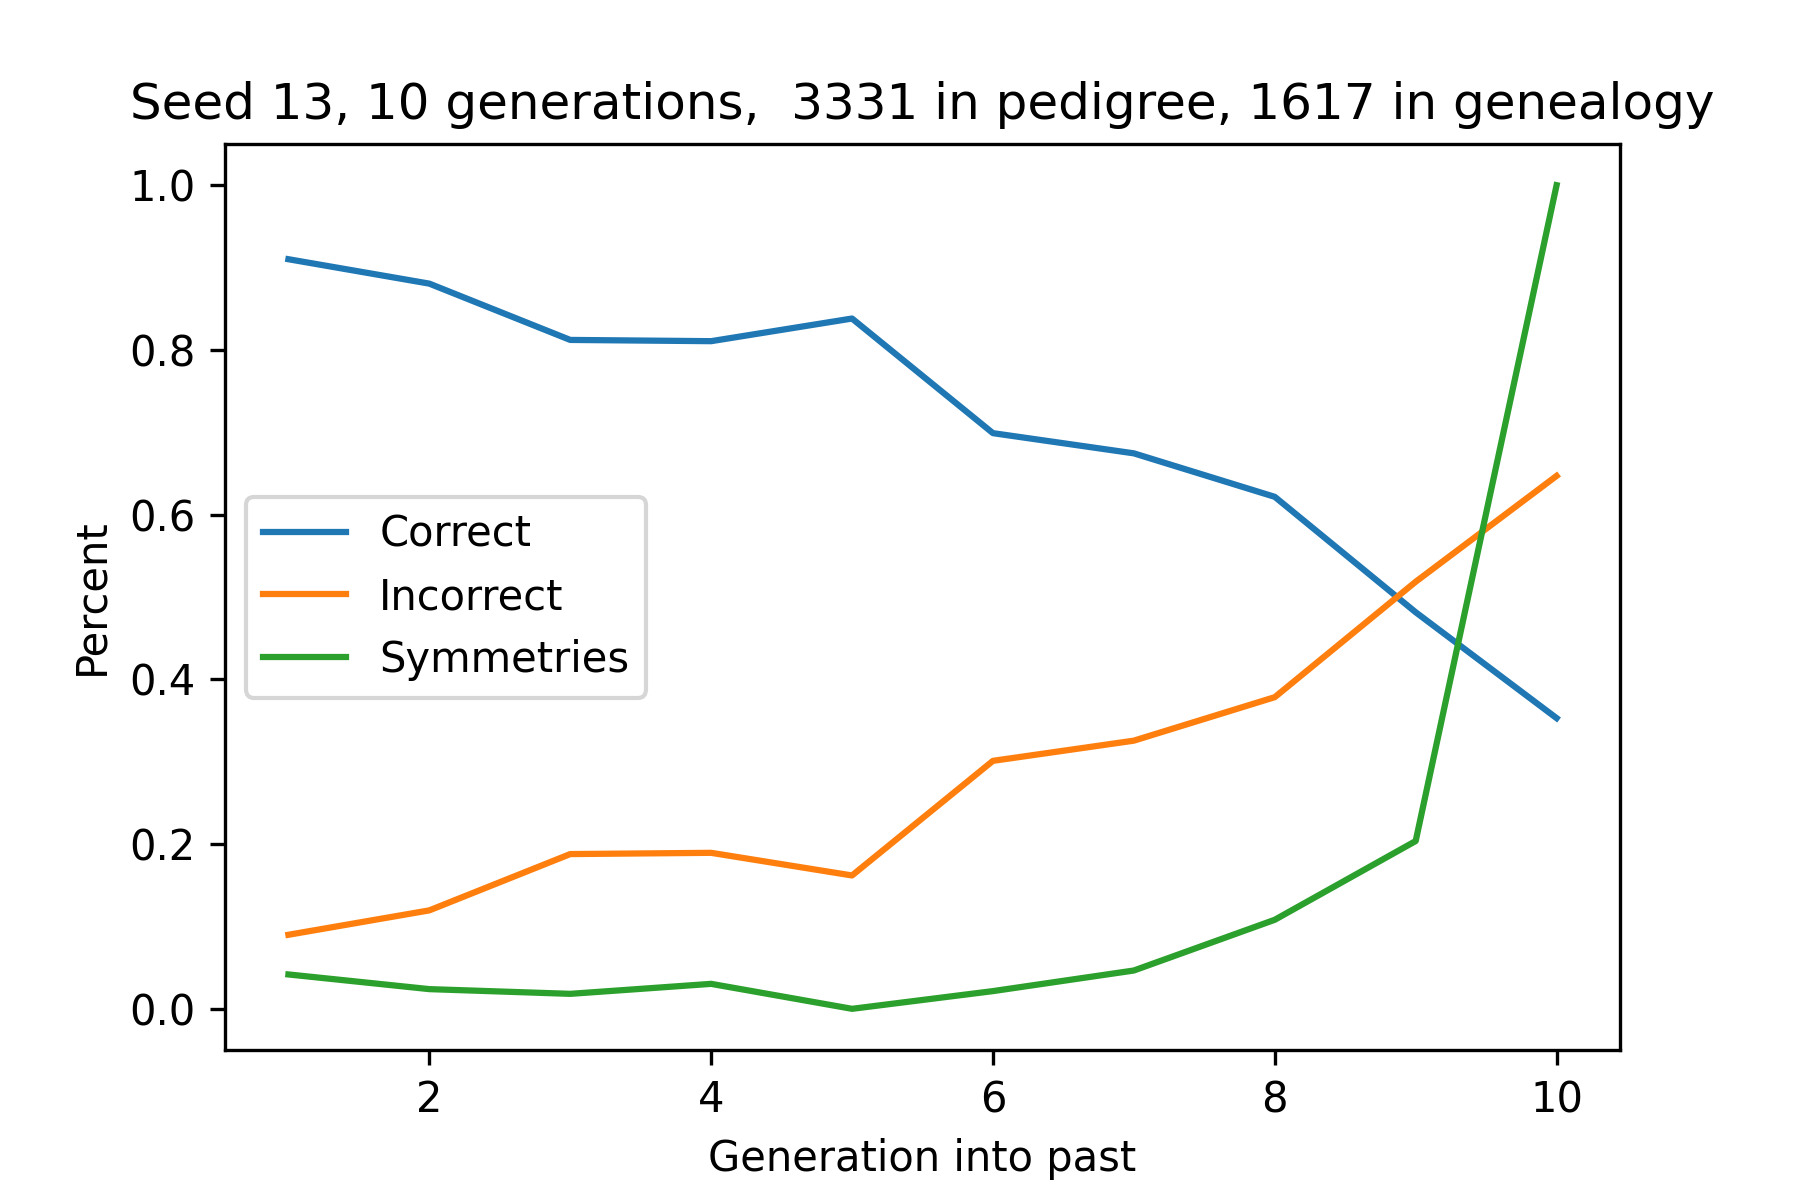
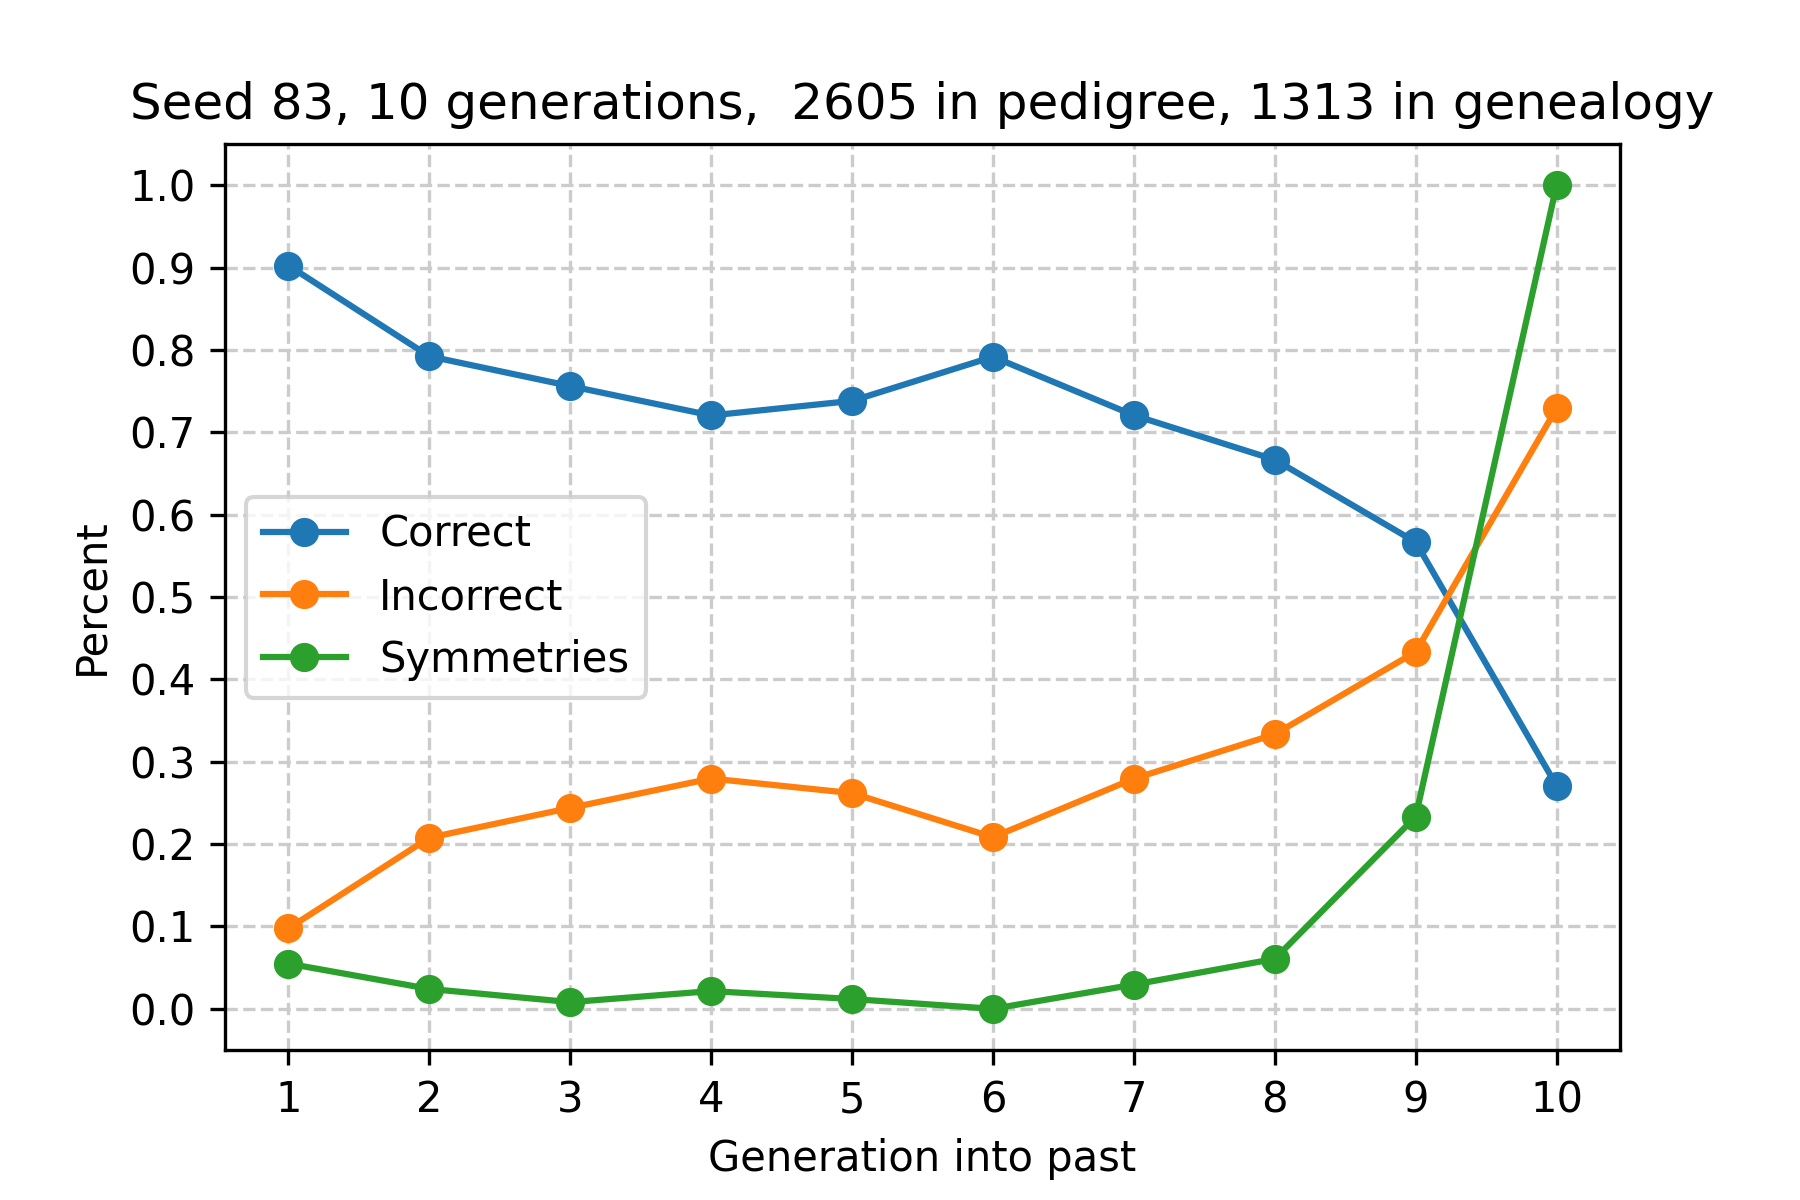
Added more agent alignment and plotting

diff --git a/scripts/agent_example.py b/scripts/agent_example.py
@@ -4,32 +4,41 @@ import numpy as np
 from collections import Counter
 import numpy.random as rnd
 import matplotlib.pyplot as plt
+from copy import deepcopy
 
 
-seed = rnd.randint(1000)
+# seed = rnd.randint(1000)
+seed = 83
 rnd.seed(seed)
 print(f"Seed {seed}")
+founders = 200
 generations = 10
-P = Pedigree.simulate_from_founders(200, generations, avg_immigrants=20)
+P = Pedigree.simulate_from_founders(founders, generations, avg_immigrants=10)
 depth = P.infer_depth(forward=False)
 
 T = P.sample_haploid_path()
+coal_nodes = nx.subgraph_view(T.graph, lambda n: T.graph.out_degree(n) > 1).nodes
+
 C = T.to_coalescent()
 probands = C.probands()
 
 dist = C.distance_matrix().todense()
 dist[dist == 0] = np.inf
-D = np.power(2.0, -dist)
+coefficient = 2.0
+D = np.power(coefficient, -dist)
 
-K, idx = P.kinship_lange()
+K, idx = P.kinship_lange(coefficient=coefficient)
 
 prob_idx = [idx[p] for p in probands]
 
 climber = Climber(P, source=probands)
 correct, incorrect, symmetries, total = Counter(), Counter(), Counter(), Counter()
+agents = []
 
+R = deepcopy(C)
 for agent, pedigree_parents in climber:
-    genealogy_parent = C.parent_of(agent)
+    agents.append(agent)
+    genealogy_parent = R.parent_of(agent)
     if not pedigree_parents:
         continue
     if not genealogy_parent:
@@ -58,10 +67,10 @@ for agent, pedigree_parents in climber:
     climber.queue(choice)
 
     # add node-to-edge alignment
-    if choice not in C.graph:
-        C.graph.add_node(choice, inferred=True)
-        C.graph.add_edge(choice, agent, inferred=True)
-        C.graph.add_edge(genealogy_parent, choice, inferred=True)
+    if choice not in R.graph:
+        R.graph.add_node(choice, inferred=True)
+        R.graph.add_edge(choice, agent, inferred=True)
+        R.graph.add_edge(genealogy_parent, choice, inferred=True)
 
     # check if correct
     
@@ -74,6 +83,8 @@ for agent, pedigree_parents in climber:
         incorrect[d] += 1
     finally:
         total[d] += 1
+
+assert len(agents) == len(set(agents))
 
 print(correct)
 print(incorrect)
@@ -92,11 +103,20 @@ x, y_incorrect = make_hist(incorrect, generations)
 x, y_symmetries = make_hist(symmetries, generations)
 x, y_total = make_hist(total, generations)
 
+plt.rc('grid', linestyle="--", color='0.8')
 fig, ax = plt.subplots()
 ax.set(ylim=(-0.05, 1.05), xlabel="Generation into past", ylabel="Percent", title=f"Seed {seed}, {generations} generations,  {P.n_individuals} in pedigree, {sum(y_total)} in genealogy")
-ax.plot(x, y_correct / y_total, label = "Correct")
-ax.plot(x, y_incorrect / y_total, label = "Incorrect")
-ax.plot(x, y_symmetries / y_total, label = "Symmetries")
-
+ax.plot(x, y_correct / y_total, label = "Correct", marker='o')
+ax.plot(x, y_incorrect / y_total, label = "Incorrect", marker='o')
+ax.plot(x, y_symmetries / y_total, label = "Symmetries", marker='o')
+ax.set_xticks(np.arange(1, generations + 1))
+ax.set_yticks(np.arange(0, 1.1, 0.1))
 ax.legend()
+ax.grid(True)
 fig.savefig('fig/agent_example.png', dpi=300)
+
+# edge_inferred = R.get_edge_attr('inferred')
+# node_inferred = R.get_node_attributes('inferred')
+# node_colors = {node: ('green' if yes else 'red') for node, yes in node_inferred.items()}
+# edge_colors = {node: ('green' if yes else 'red') for node, yes in edge_inferred.items()}
+# R.draw(node_color=node_colors, edge_color=edge_colors)

diff --git a/genealogy_aligner/Pedigree.py b/genealogy_aligner/Pedigree.py
@@ -64,7 +64,7 @@ class Pedigree(Genealogical):
 
         return depth
 
-    def kinship_lange(self):
+    def kinship_lange(self, coefficient = 2):
         """Calculate the kinship matrix using the Lange kinship algorithm
 
         This algorithm uses the partial ordering from ``infer_depth()`` to assign indices in the output matrix
@@ -90,16 +90,16 @@ class Pedigree(Genealogical):
             if any(G.predecessors(node)):
                 mother, father = G.predecessors(node)
                 mat_idx, pat_idx = label_to_index[mother], label_to_index[father]
-                K[node_idx, node_idx] = 0.5 + (K[mat_idx, pat_idx]/2)
+                K[node_idx, node_idx] = (1 + K[mat_idx, pat_idx]) / coefficient
             else:
-                K[node_idx, node_idx] = 0.5
+                K[node_idx, node_idx] = 1/coefficient
                
             for relative_idx in range(node_idx+1, n):
                 relative = index_to_label[relative_idx]
                 if any(G.predecessors(relative)):
                     mother, father = G.predecessors(relative)
                     mat_idx, pat_idx = label_to_index[mother], label_to_index[father]
-                    v = (K[node_idx, mat_idx]/2) + (K[node_idx, pat_idx]/2)
+                    v = (K[node_idx, mat_idx] + K[node_idx, pat_idx]) / coefficient
                     K[node_idx, relative_idx] = v
                     K[relative_idx, node_idx] = v
 

diff --git a/genealogy_aligner/Traversal.py b/genealogy_aligner/Traversal.py
@@ -160,7 +160,7 @@ class Traversal(Genealogical):
         for t in range(self.generations):
             for node in C.nodes_at_generation(t):
                 parent = self.parent_of(node)
-                while parent and self.graph.out_degree(parent) != 2:
+                while parent and self.graph.out_degree(parent) < 2:
                     parent = self.parent_of(parent)
                 if parent:
                     C.graph.add_node(parent, time=time[parent])
